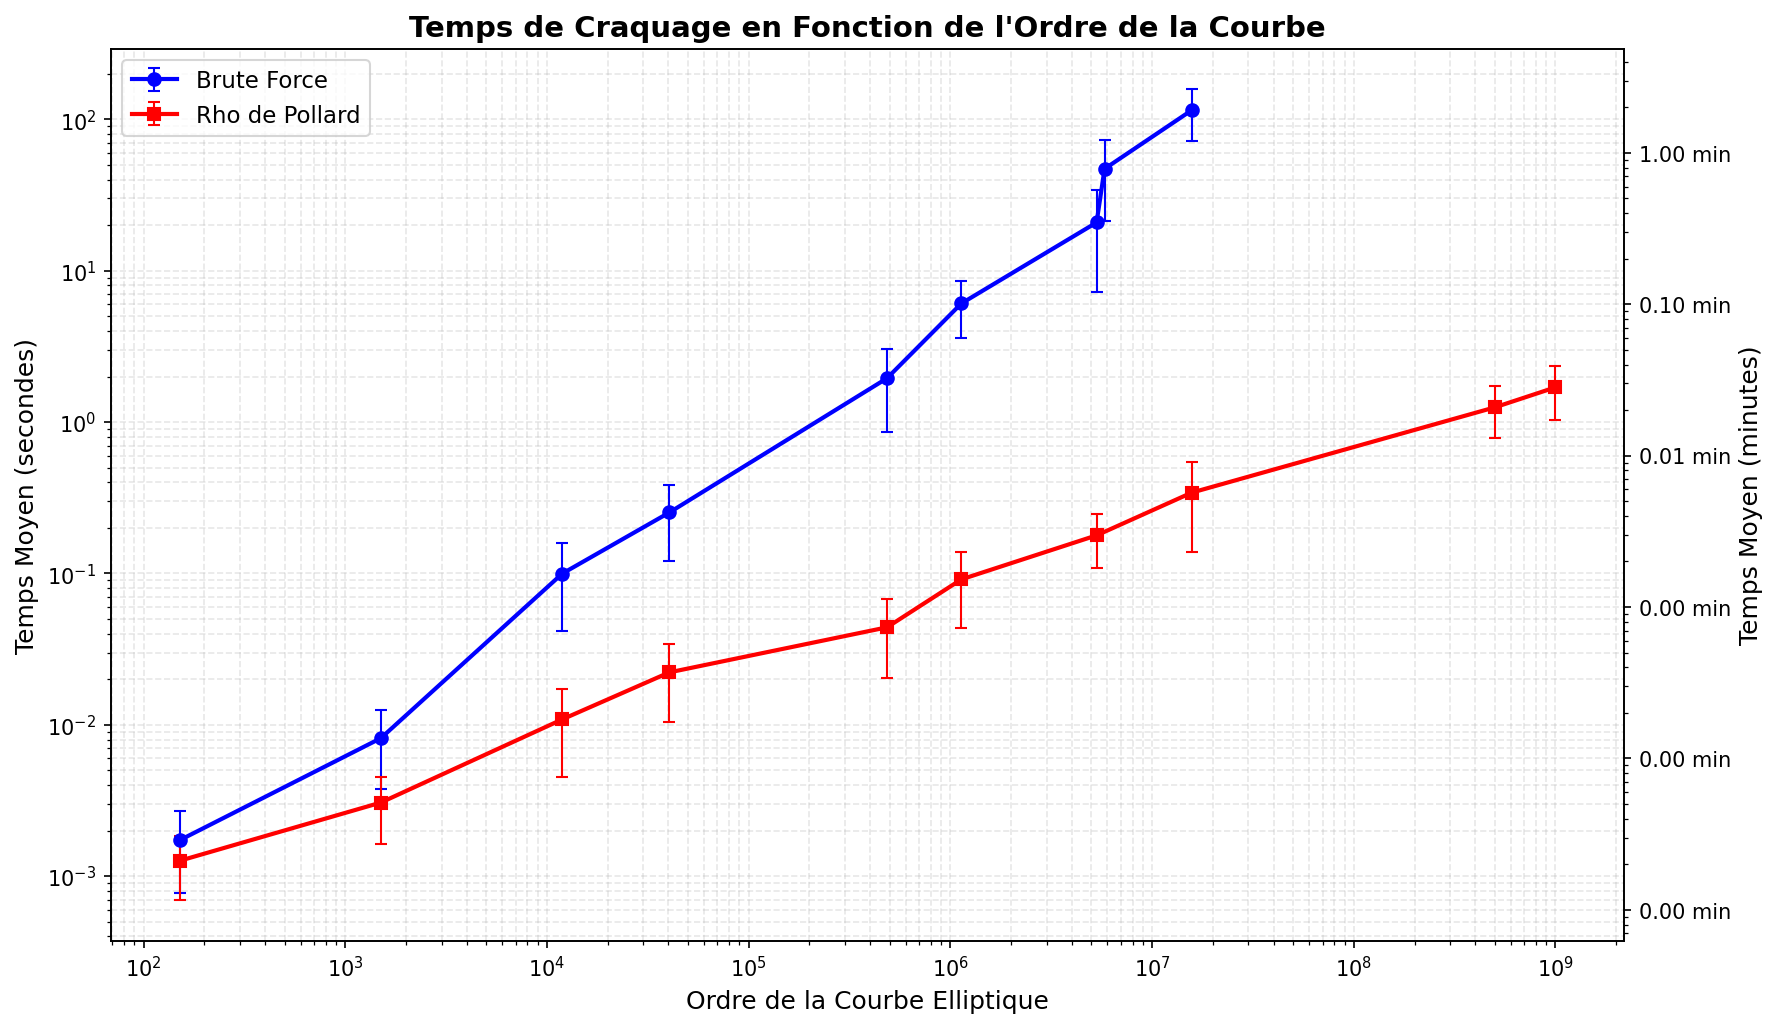
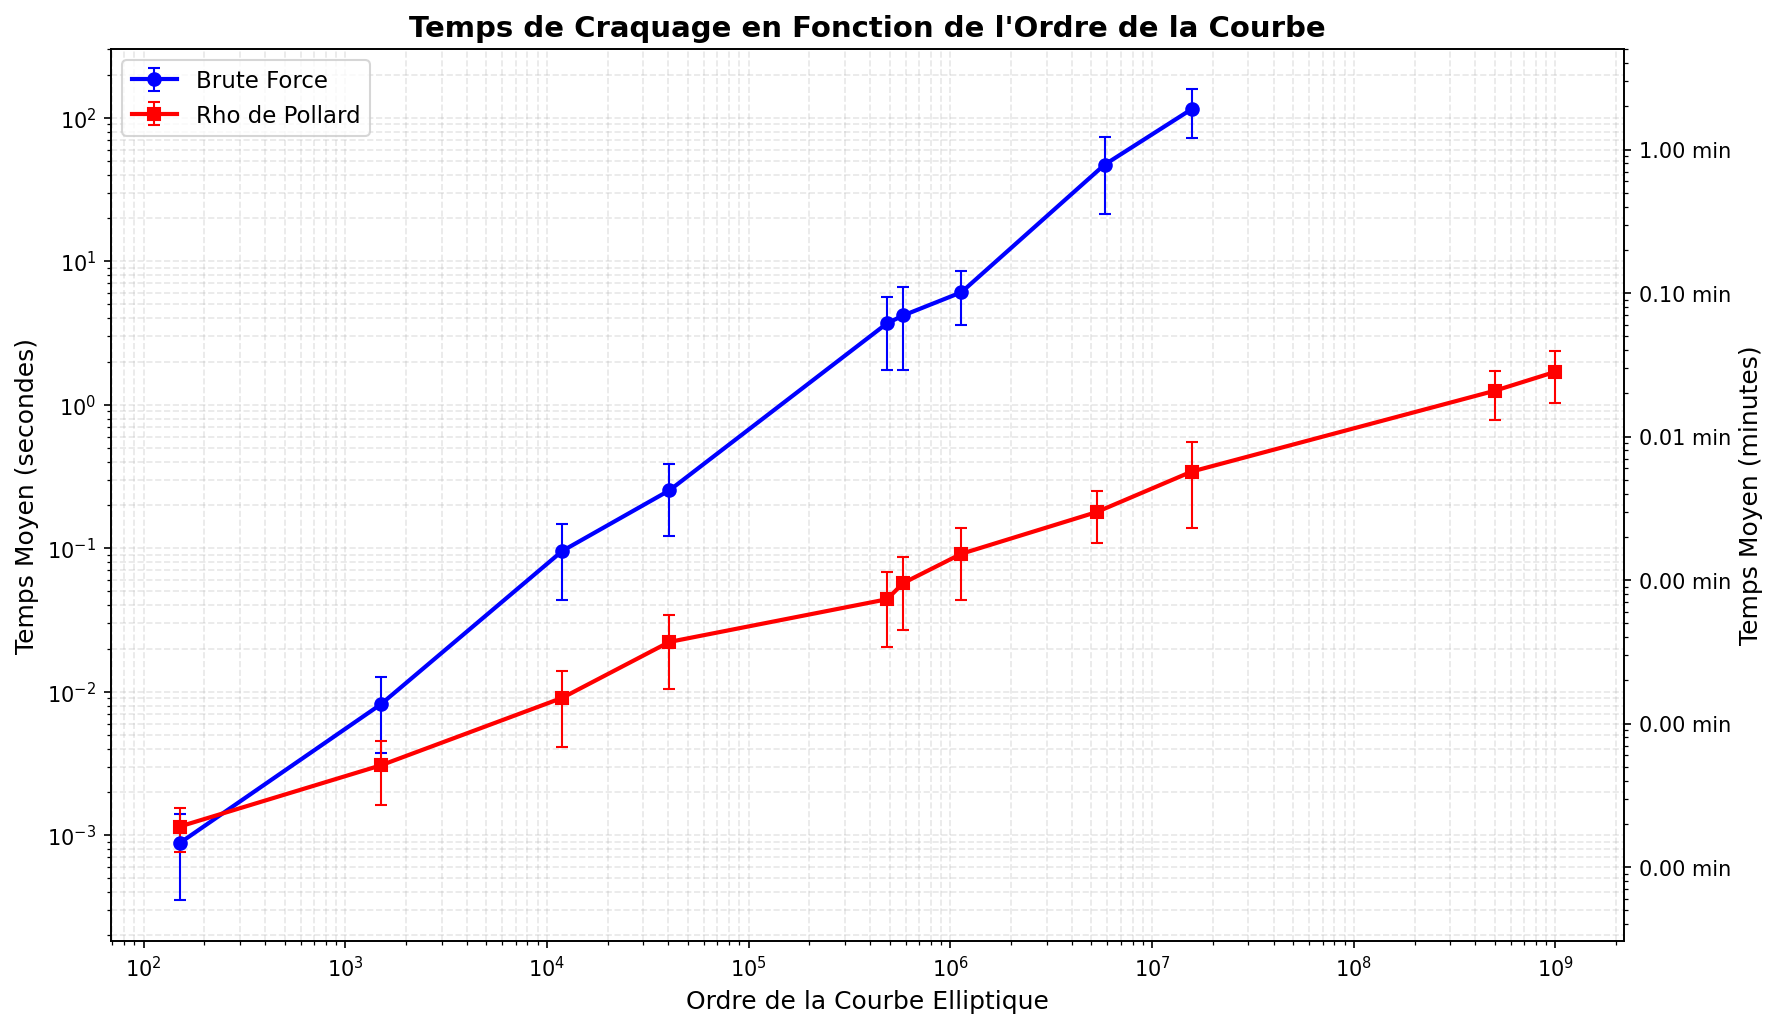
eujvbneis

diff --git a/crack/gui_cracker.py b/crack/gui_cracker.py
@@ -65,7 +65,7 @@ class CrackerGUI(tk.Tk):
         ttk.Label(self, text='Algorithm:').grid(column=0, row=0, sticky='w', padx=pad, pady=pad)
         self.algo_var = tk.StringVar(value='rho')
         algo_menu = ttk.Combobox(self, textvariable=self.algo_var, state='readonly')
-        algo_menu['values'] = ('rho', 'force')
+        algo_menu['values'] = ('rho', 'force', 'tous les algorithmes')
         algo_menu.grid(column=1, row=0, sticky='ew', padx=pad)
 
         # Curve selection
@@ -181,13 +181,16 @@ class CrackerGUI(tk.Tk):
             self.start_btn.config(state='normal')
             return
 
-        # choose algorithm function
-        algo_func = crack_rho_de_pollard if algo == 'rho' else crack_force_brute
+        # choose algorithm function(s)
+        algos_map = {'rho': crack_rho_de_pollard, 'force': crack_force_brute}
 
         # disable UI
         self.start_btn.config(state='disabled')
         self.status_label.config(text='Running...')
-        self._append_result(f'Running {algo} on curve {curve_idx} for N={n}\n')
+        if algo == 'tous les algorithmes':
+            self._append_result(f'Exécution de tous les algorithmes sur la courbe {curve_idx} pour N={n}\n')
+        else:
+            self._append_result(f'Running {algo} on curve {curve_idx} for N={n}\n')
 
         # run in background thread
         self.progress_bar['value'] = 0
@@ -199,7 +202,10 @@ class CrackerGUI(tk.Tk):
         self._start_time = time.perf_counter()
         self._running_timer = True
         self.after(200, self._update_timer)
-        thread = threading.Thread(target=self._run_and_report, args=(CE, algo_func, n, curve_idx, workers), daemon=True)
+        if algo == 'tous les algorithmes':
+            thread = threading.Thread(target=self._run_all_and_report, args=(CE, n, curve_idx, workers), daemon=True)
+        else:
+            thread = threading.Thread(target=self._run_and_report, args=(CE, algos_map[algo], n, curve_idx, workers), daemon=True)
         thread.start()
 
     def _run_and_report(self, CE, algo_func, n, curve_label, workers=None):
@@ -218,6 +224,48 @@ class CrackerGUI(tk.Tk):
             
             mean, u = crack_perfCE_csv(CE, algo_func, N=n, progress_callback=progress_with_bar, workers=workers)
             self._append_result(f'\n✓ Finished: mean={mean:.6f}s ± {u:.6f}s\n')
+            self.status_label.config(text='Done')
+            self.progress_bar['value'] = 100
+        except Exception as e:
+            self._append_result(f'Error during run: {e}\n')
+            self.status_label.config(text='Error')
+        finally:
+            # stop timer and re-enable UI
+            self._running_timer = False
+            self.start_btn.config(state='normal')
+
+    def _run_all_and_report(self, CE, n, curve_label, workers=None):
+        try:
+            algos = [('rho', crack_rho_de_pollard), ('force', crack_force_brute)]
+            for name, func in algos:
+                self._append_result(f'\n=== Running {name} ===\n')
+                self.status_label.config(text=f'Running {name}')
+                # reset progress for each algorithm
+                self.progress_bar['value'] = 0
+                self.counter_label.config(text=f'0/{n}')
+
+                def progress_with_bar(msg, prefix=name):
+                    # Extract counter from msg (e.g., "Cracked: 3/5...")
+                    if "Cracked:" in msg:
+                        parts = msg.split()
+                        for part in parts:
+                            if '/' in part:
+                                current, total = map(int, part.split('/'))
+                                self._update_progress(current, total)
+                                break
+                    self._append_result(f'[{name}] {msg}')
+
+                mean, u = crack_perfCE_csv(CE, func, N=n, progress_callback=progress_with_bar, workers=workers, update_plot=False)
+                self._append_result(f'\n✓ Finished {name}: mean={mean:.6f}s ± {u:.6f}s\n')
+
+            # try to generate combined perf graph once at the end
+            try:
+                from module.plot_perf import generate_perf_graph
+                generate_perf_graph(show=False, verbose=False)
+            except Exception as e:
+                self._append_result(f'Warning: generate_perf_graph failed: {e}\n')
+
+            self._append_result('\nTous les algorithmes terminés\n')
             self.status_label.config(text='Done')
             self.progress_bar['value'] = 100
         except Exception as e:
